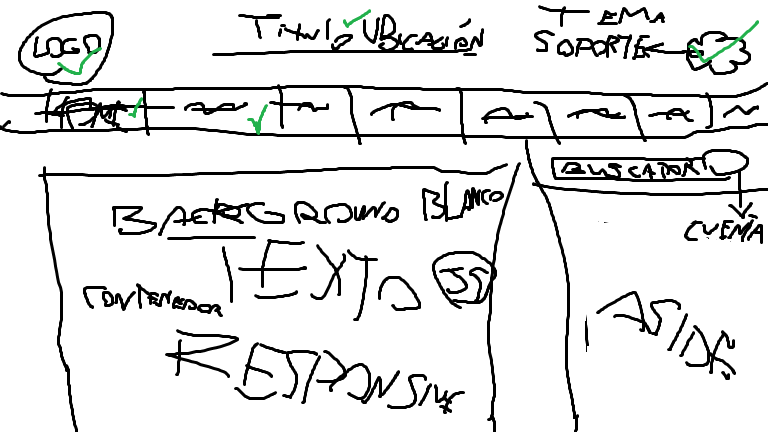
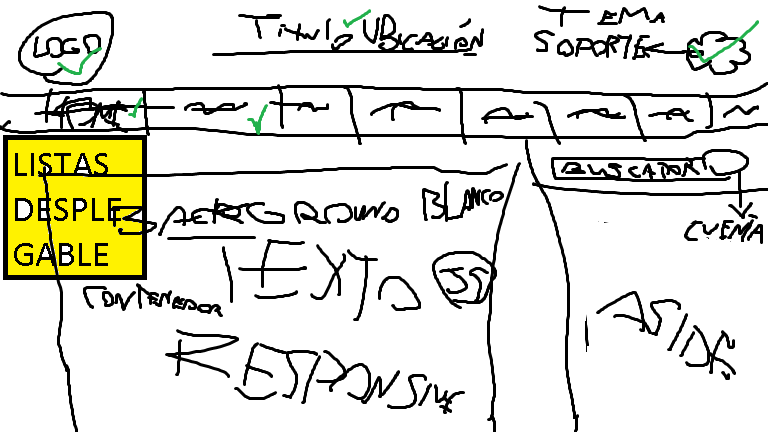
juego button + index

Changed region(s): [[0.0, 0.3009, 0.2188, 0.662]]

diff --git a/HTML, CSS, JS/juego.html b/HTML, CSS, JS/juego.html
@@ -1,7 +1,7 @@
 <!DOCTYPE html>
-<html lang="es">
+<html lang="en">
 <head>
-    <title> TABLE </title>
+    <title> JUEGO </title>
     <link rel="stylesheet" href="style/style.css">
     <script src="script/script.js"></script>
 </head>
@@ -24,34 +24,25 @@
             <a href="index.html"><button class="boton"> JAVASCRIPT </button></a>
             <a href="index.html"><button class="boton"> C++ </button></a>
             <a href="index.html"><button class="boton"> ARDUINO </button></a>
-            <a href="juego.html"><button class="boton"> JUEGO </button></a>
+            <a href="index.html"><button class="boton"> JUEGO </button></a>
+            <ul>
+                <li> <a href="https://www.arealme.com/apm-actions-per-minute-test/es/"> lista desplegable </a></li>
+            </ul>
         </nav>
         
     </header>
     
     <main>
-    <br><br><br><br><br><br><br><br><br>
-    <center>
-        <table>
-            <colgroup>
-                <col span="2" style="background-color:rgb(144, 0, 255)">
-                <col style="background-color:rgba(0, 255, 162, 0.887)">
-            <caption>Entidad</caption>
-            <tr>
-                <th>filas</th>
-                <th>ejemplo</th>
-                <th>ejemplo2</th>
-            </tr>
-            <tr>
-                <td>atributo</td>
-                <td>234</td>
-                <td>3427</td>
-            </tr>
-        </table>
-    </center>
-    <br><br><br><br><br><br><br><br><br><br><br><br><br><br><br><br><br><br><br><br><br><br><br><br><br><br><br>
+        <br><br><br><br><br><br><br><br><br>
+        <article>
+            <img src="img/Idea.png" alt="idea" id="idea">
+        </article>
+        <aside>
+            <!-- Aside -->
+        </aside>
+        <br><br><br><br><br><br><br><br><br><br><br><br><br><br><br><br><br><br>
     </main>
-    
+
     <footer>
         <a href="https://www.youtube.com/" target="_blank"> <img src="img/logo youtube.png" alt="logo youtube" id="logoyoutube"> </a>
         <a href="https://github.com/jordiralde" target="_blank"> <img src="img/GitHub Logo.png" alt="GitHub Jord-n" id="logogithub"></a>

diff --git a/HTML, CSS, JS/index.html b/HTML, CSS, JS/index.html
@@ -25,7 +25,7 @@
             <a href="index.html"><button class="boton"> JAVASCRIPT </button></a>
             <a href="index.html"><button class="boton"> C++ </button></a>
             <a href="index.html"><button class="boton"> ARDUINO </button></a>
-            <a href="index.html"><button class="boton"> BIBLIA </button></a>
+            <a href="juego.html"><button class="boton"> JUEGO </button></a>
             <ul>
                 <li> <a href="https://www.arealme.com/apm-actions-per-minute-test/es/"> lista desplegable </a></li>
             </ul>
